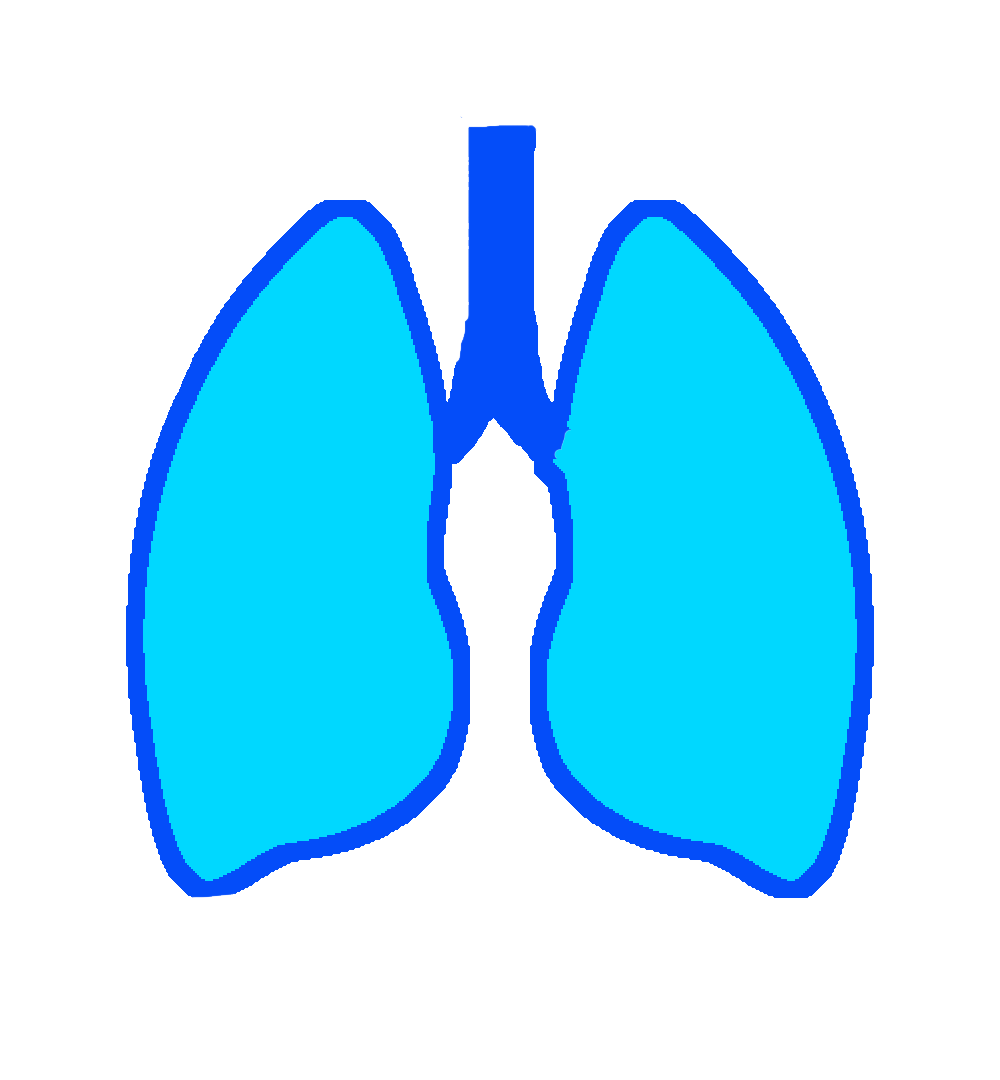
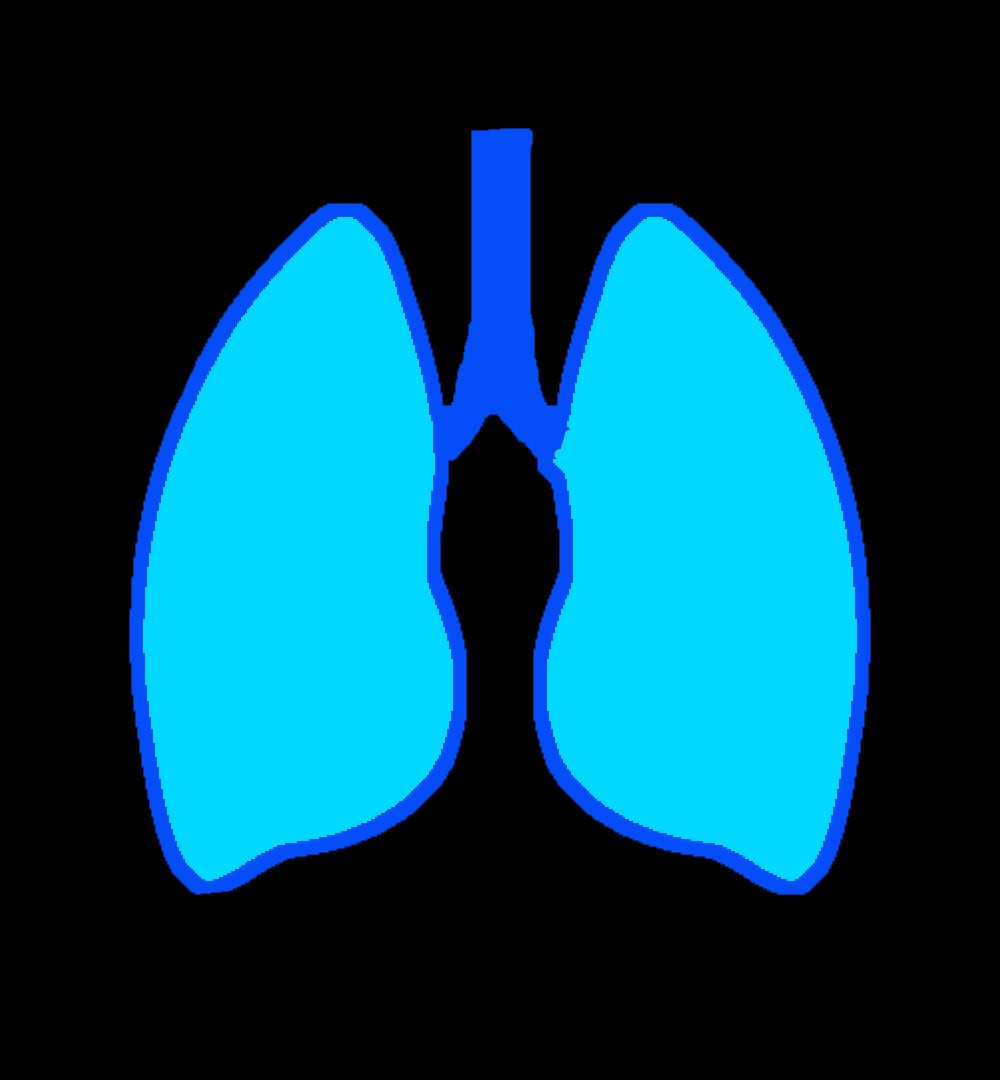
color extraction done

diff --git a/vhb.py b/vhb.py
@@ -8,6 +8,7 @@ class lsg:
         self.fps = fps
         self.video_name = video_name
         self.output_dir = output_dir
+        # BGR format
         self.inner_color = inner_color
         self.outer_color = outer_color
         self.split_layers(lung_dir)
@@ -15,24 +16,18 @@ class lsg:
     def split_layers(self, lung_dir):
         lung = cv2.imread(lung_dir)
 
-        #mask = cv2.inRange(lung, self.inner_color, self.same(self.inner_color))
-        #masked = cv2.bitwise_and(lung,lung, mask=mask)
-        #self.inner_lung = lung - masked
         self.inner_lung = self.extract_color(lung, self.inner_color)
-        #print(np.count_nonzero(self.inner_lung))
+        self.outer_lung = self.extract_color(lung, self.outer_color)
     
-        cv2.imshow("il", self.inner_lung)
-        #cv2.imshow("ol", self.outer_lung)
-        cv2.waitKey(1500)
+        # cv2.imshow("il", self.inner_lung)
+        # cv2.imshow("ol", self.outer_lung)
+        # cv2.waitKey(1500)
 
     def extract_color(self, img, color):
         # source image is rgb but seperated layers will be rgba
         mask = np.zeros((img.shape[0], img.shape[1], 4))
-        # opencv uses bgr structure but param color is rgb
-        print()
         for i in range(3):
-            
-            mask[:,:,i] = np.where(mask[:,:,i] == color[2-i], color[2-i], 0)     
+            mask[:,:,i] = np.where(img[:,:,i] == color[i], color[i], 0)     
         return mask
 
     def start(self, initial_air=1.0):
@@ -125,7 +120,7 @@ def hbtg_test():
     h.stop()
 
 def lsg_test():
-    lsg_ = lsg((0,216,255), (4, 77, 249), "resources/full_lung_wb.png")
+    lsg_ = lsg((255,216,0), (249, 77, 4), "resources/full_lung_wb.png")
 
 
 if __name__ == "__main__":  
